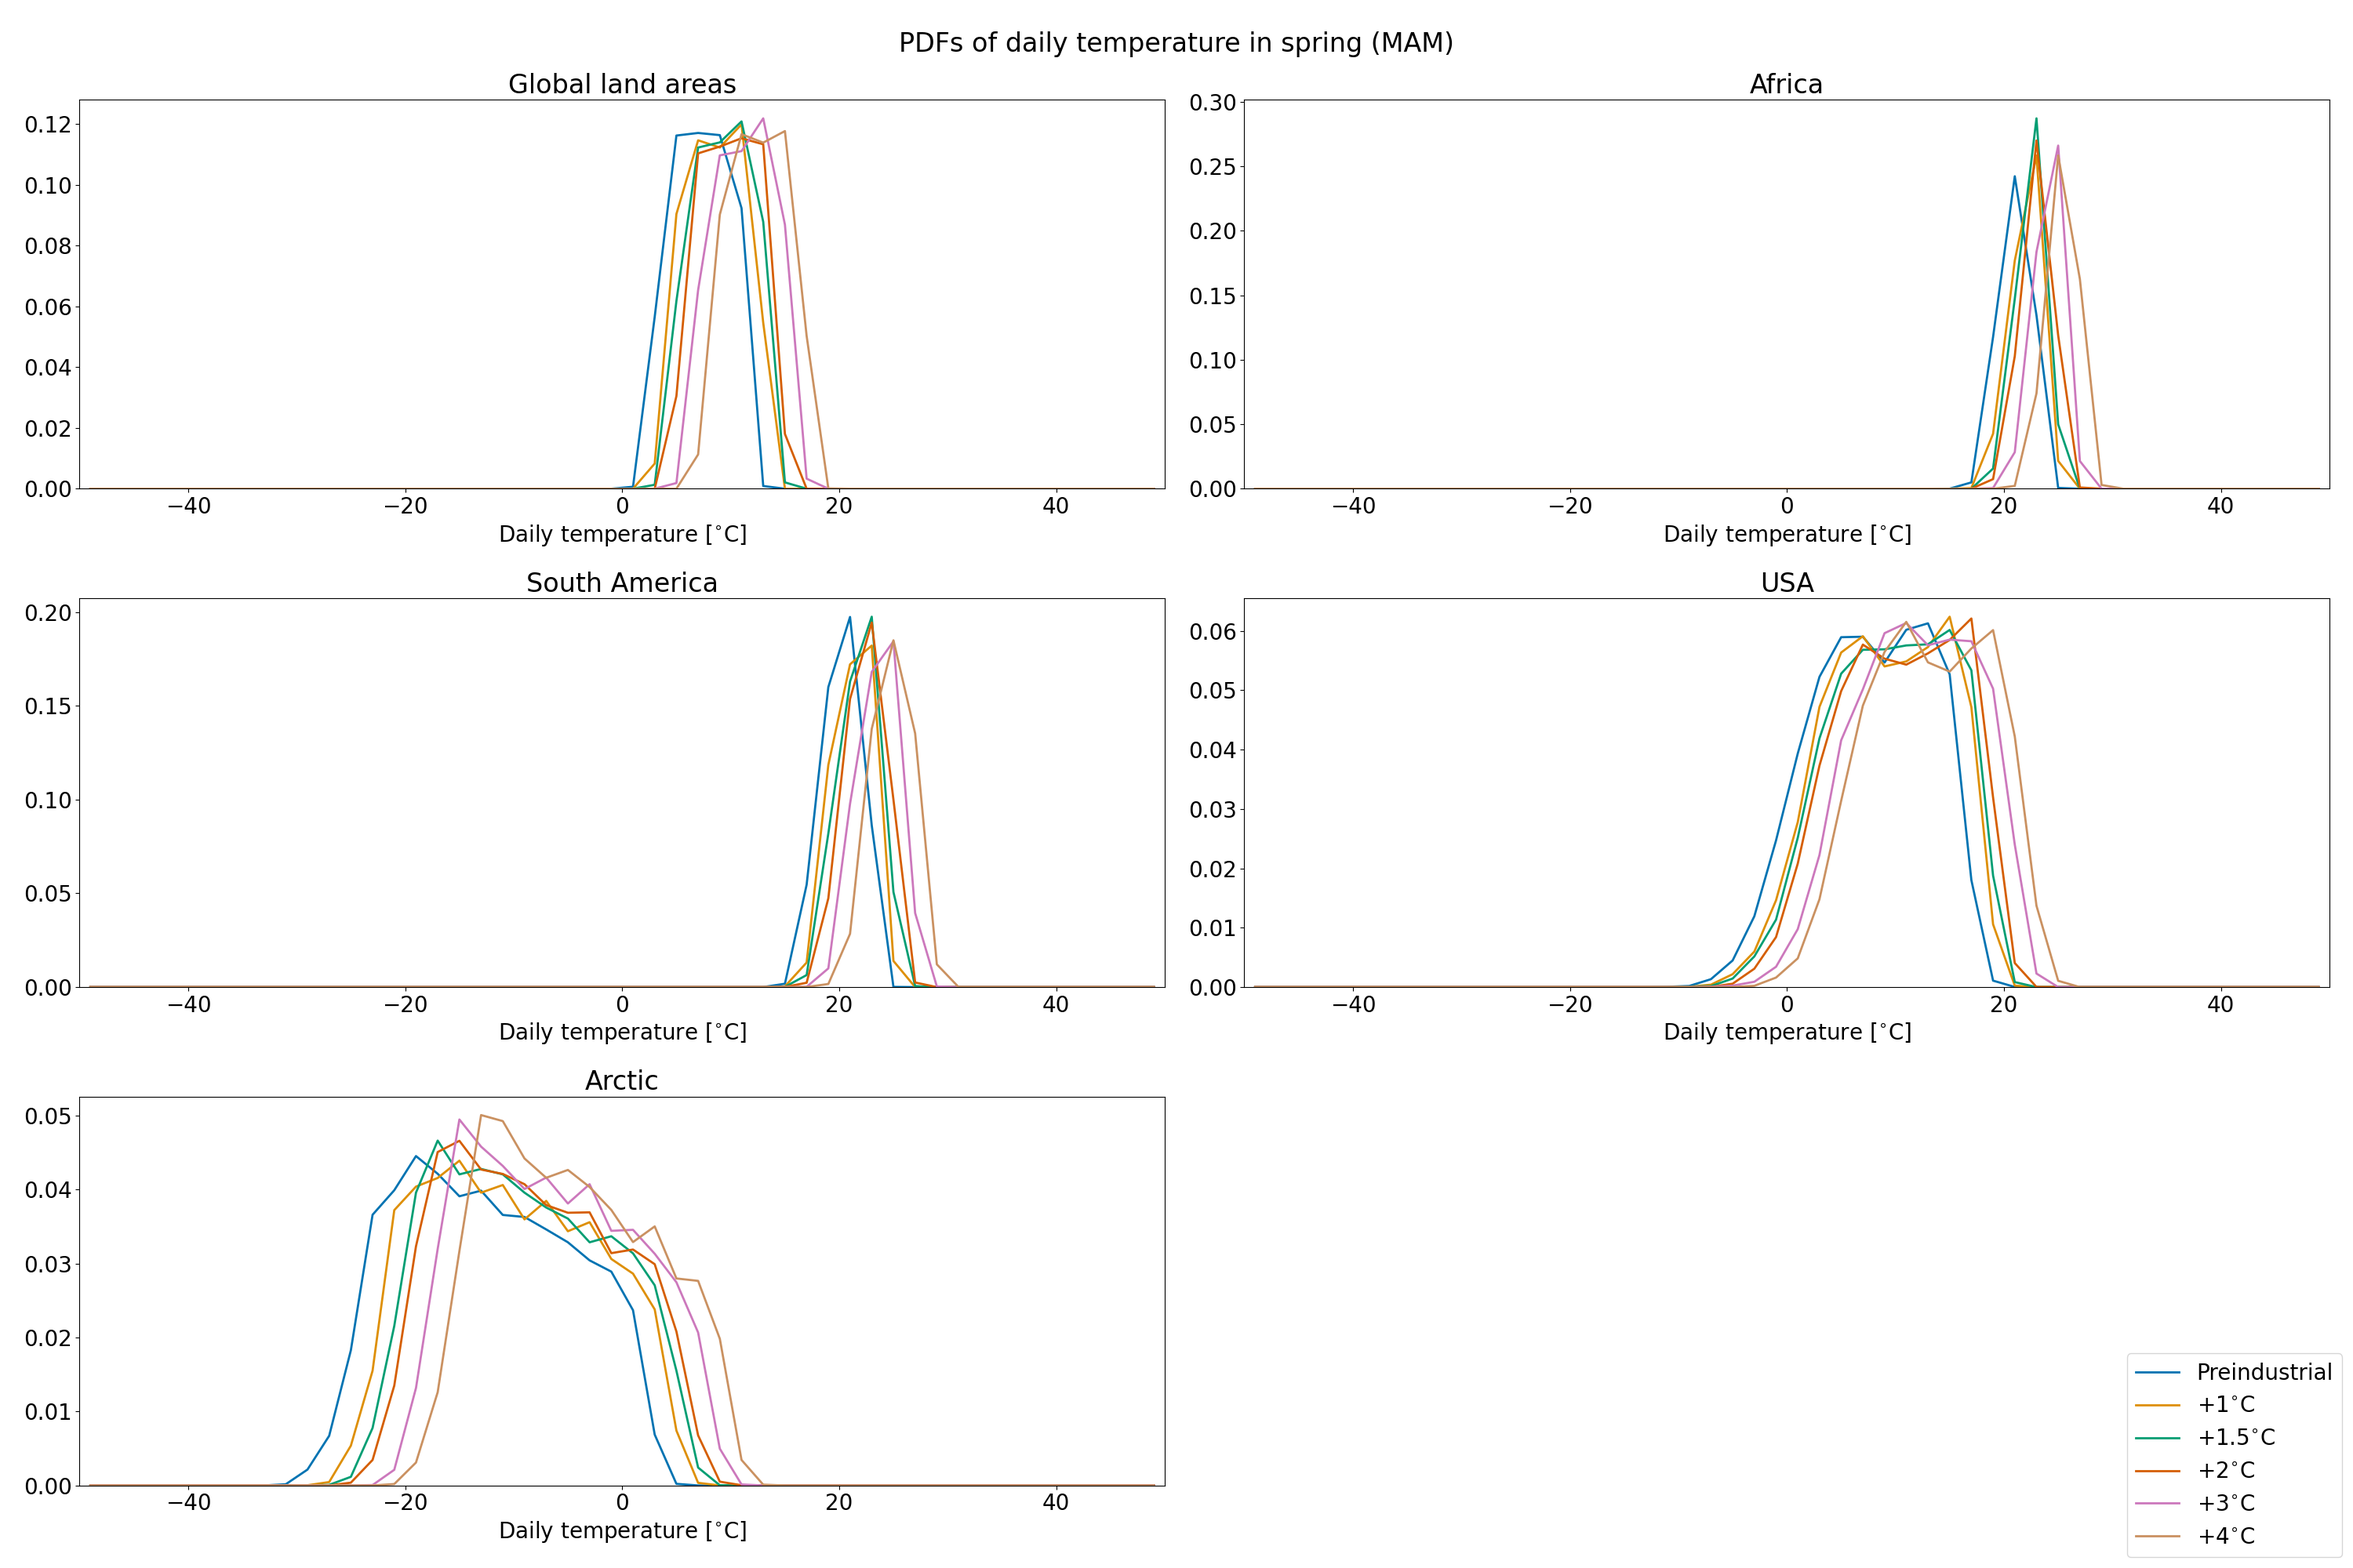
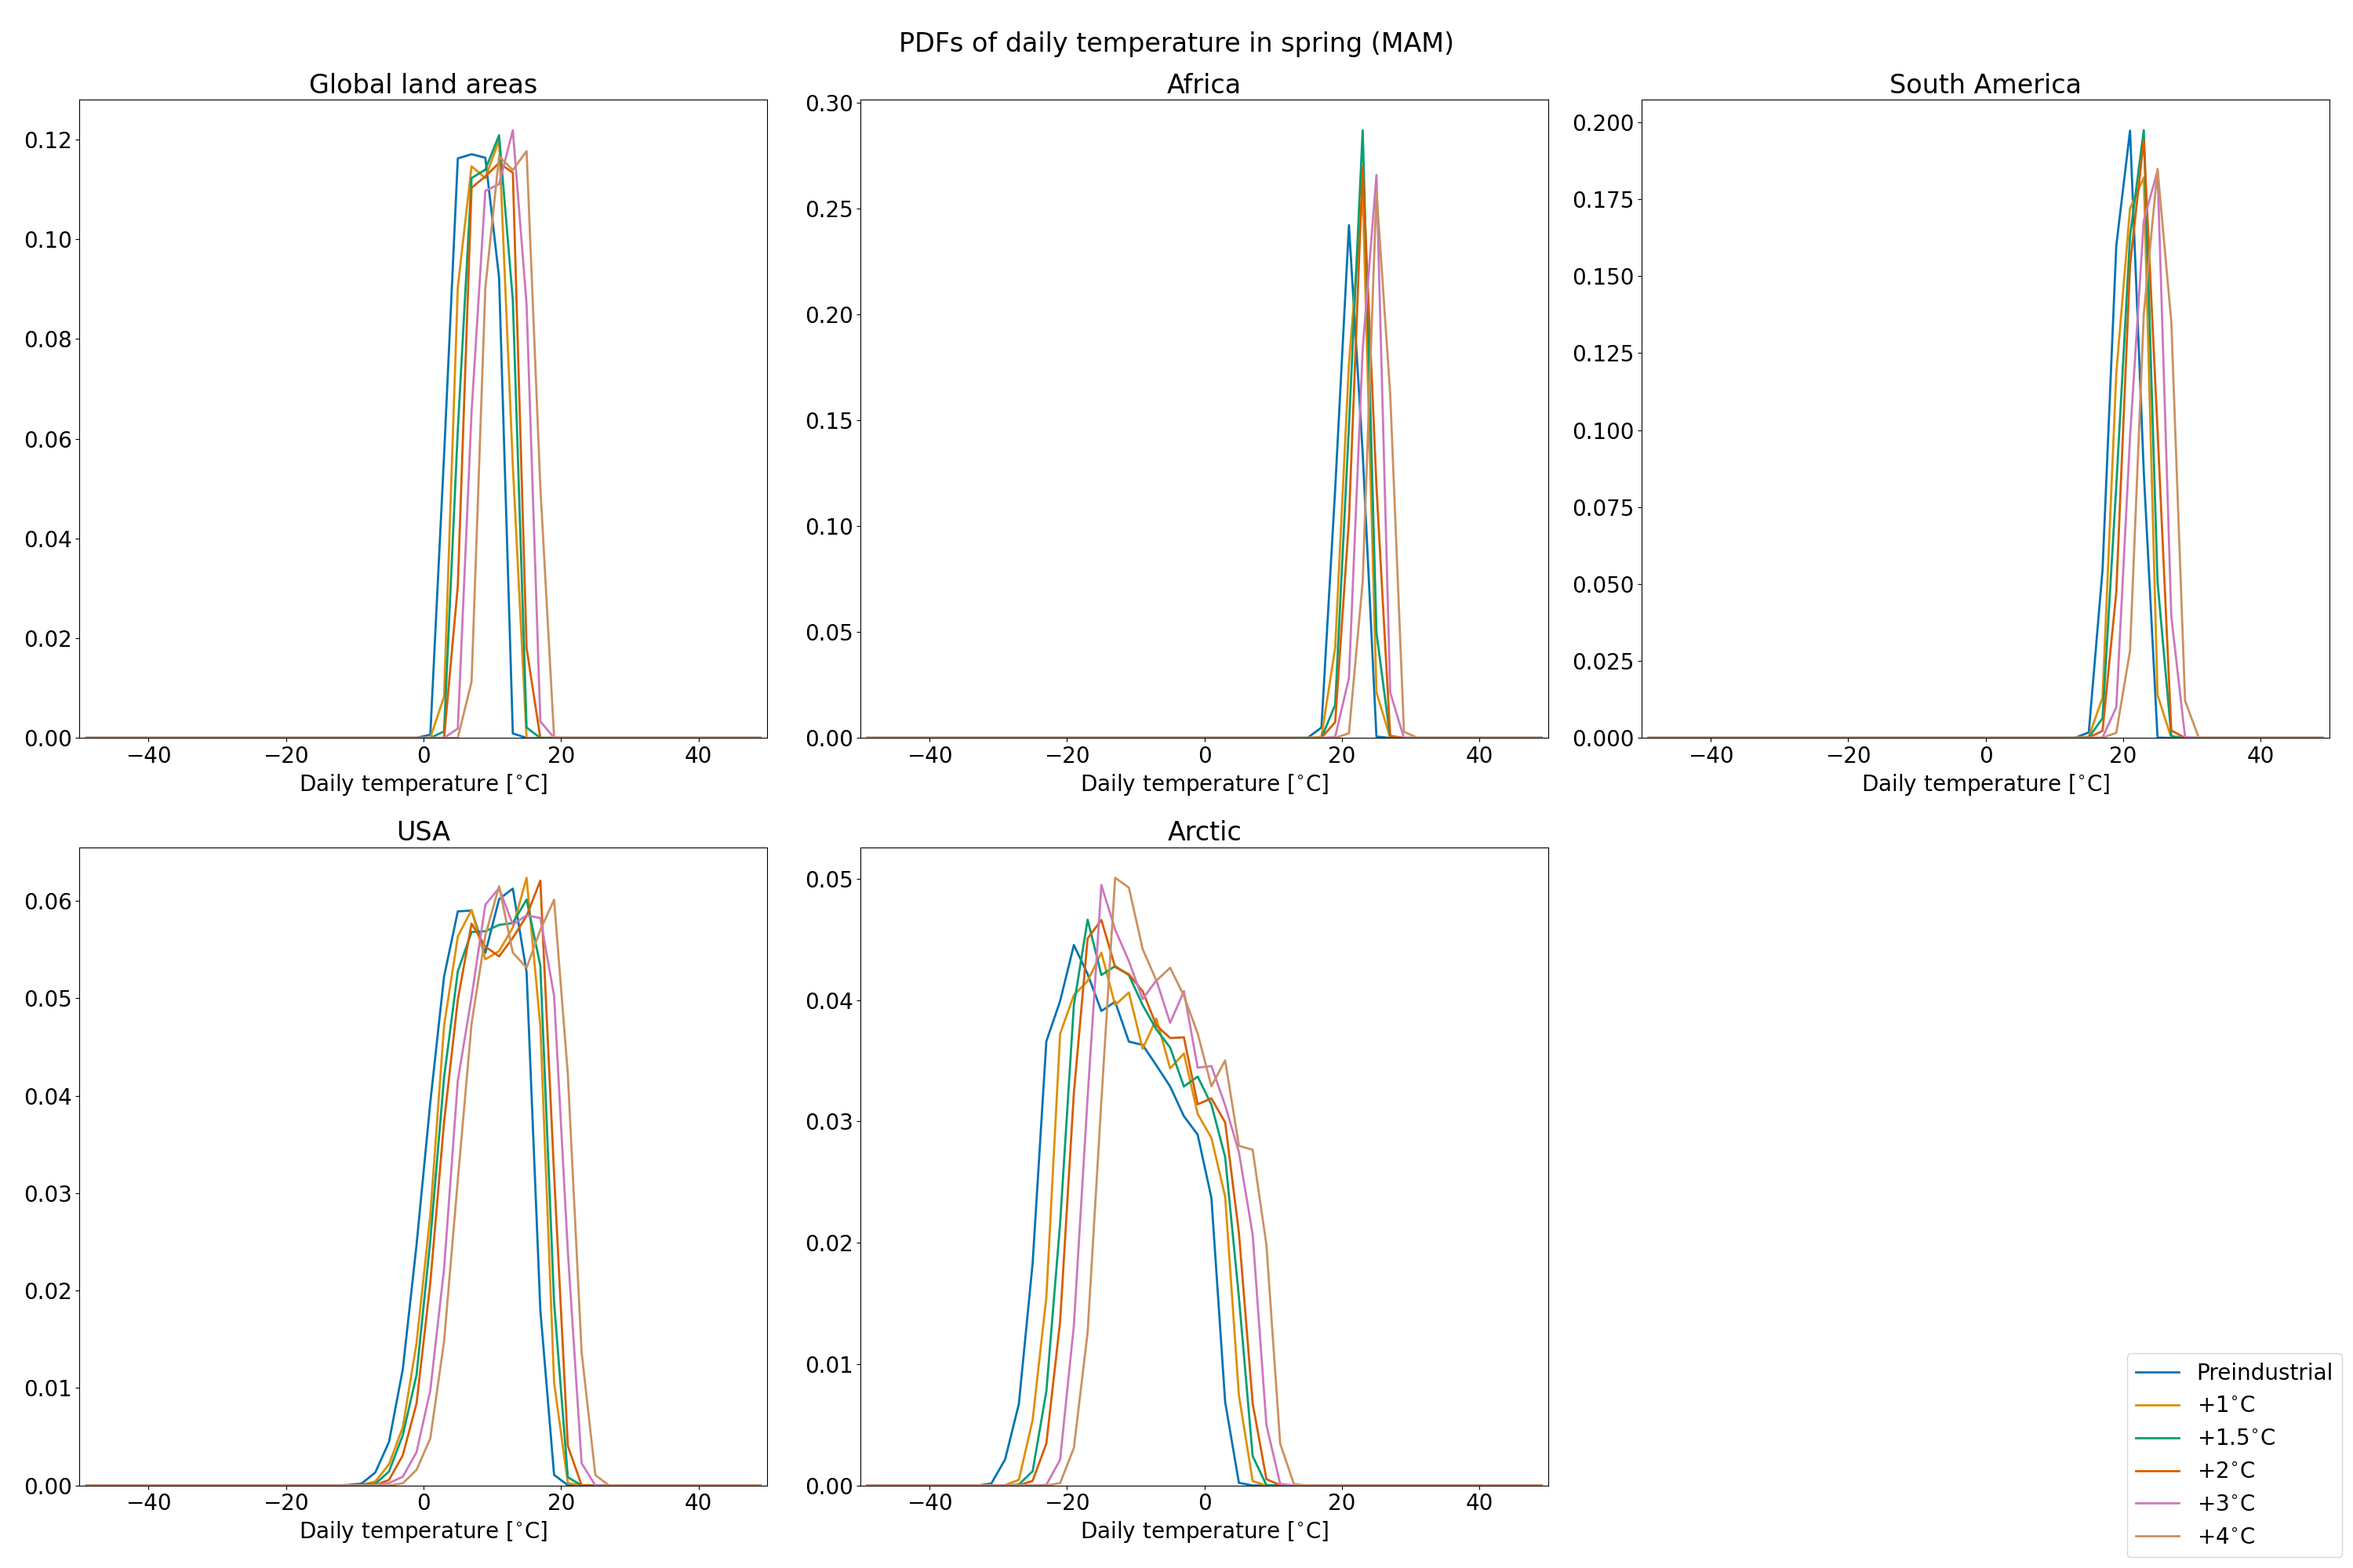
changed plot shape of pdfs

diff --git a/scripts/plotProb.py b/scripts/plotProb.py
@@ -48,6 +48,7 @@ var_xlim = [[-50,50]]
 bins = np.arange(-50,52,2)
 
 fig = plt.figure(figsize=(30,20))
+figshape = 230
 
 for var in range (len(var_shortname)):
 
@@ -61,7 +62,7 @@ for var in range (len(var_shortname)):
 
             for region in region_list:
 
-                fig.add_subplot(320+f)
+                fig.add_subplot(figshape+f)
                 plt.title(reg_longname[region])
 
                 for l in range(len(MAM.GWL)):
